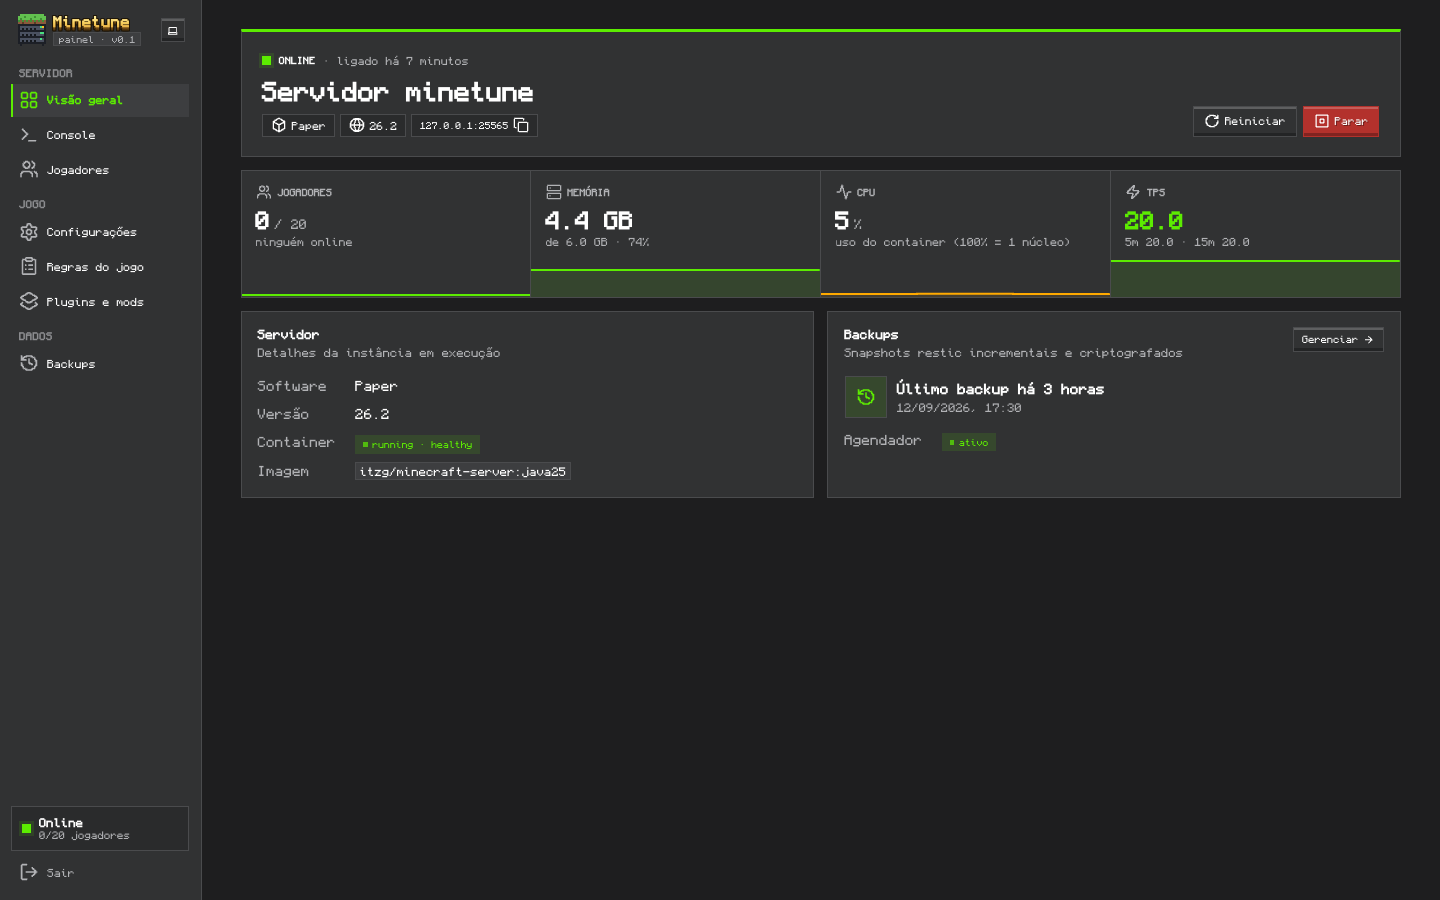
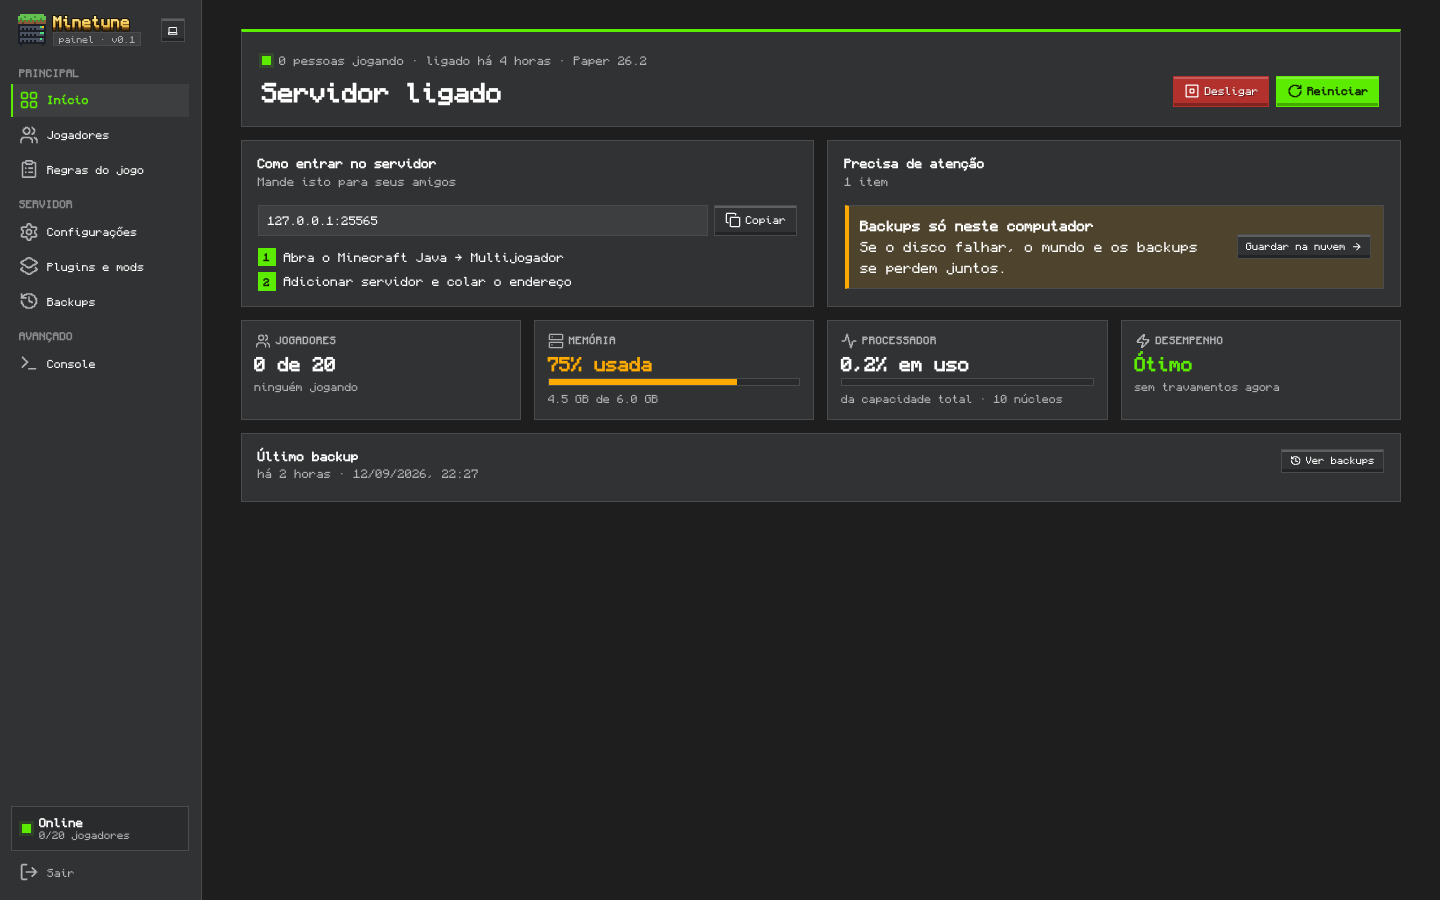
docs: prints e textos das telas no padrão novo
Os prints do README e do site ainda mostravam as telas antigas (Visão geral
com gráficos, menu lateral nas Configurações, cartão Destino) e os textos
falavam em whitelist, op e snapshots. Quem chega pelo GitHub via uma
interface que não existe mais.

Os nove prints foram tirados de novo, incluindo a subpágina Onde guardar.
O de Jogadores usa pessoas de exemplo, simuladas só no navegador, para a
tela aparecer preenchida; os outros são do servidor real. README e guia de
backups passam a usar os nomes novos (Início, lista de convidados, Onde
guardar) e o README abre com um parágrafo dizendo o que o projeto faz, com
o link do site.

diff --git a/README.md b/README.md
@@ -25,15 +25,20 @@
 </p>
 
 <p align="center">
-  <img src="docs/assets/screenshots/overview.png" width="860" alt="Visão geral do painel Minetune">
+  <img src="docs/assets/screenshots/overview.png" width="860" alt="Tela Início do painel Minetune com o estado do servidor, como entrar e avisos">
 </p>
 
 ---
 
 ## Sobre
 
-O **Minetune** junta tudo o que um servidor Minecraft precisa para rodar de
-verdade, sem improviso:
+O **Minetune** é a forma mais simples de **criar e administrar um servidor de
+Minecraft** (Java e Bedrock) com Docker: um painel web em português, feito para
+quem nunca administrou um servidor, com backups automáticos e caminhos prontos
+para colocar no ar em casa, numa VPS ou no EasyPanel.
+Site oficial: **<https://juniorcarlini.github.io/minetune/>**.
+
+Ele junta tudo o que um servidor Minecraft precisa para rodar de verdade, sem improviso:
 
 - **Servidor otimizado** sobre a imagem [`itzg/minecraft-server`](https://github.com/itzg/docker-minecraft-server):
   Paper, Purpur, Fabric, NeoForge ou Vanilla, com Java 25 e flags de GC ajustadas.
@@ -93,7 +98,7 @@ Pronto:
 | | |
 |---|---|
 | **Servidor** | Paper 26.2 por padrão; Purpur, Fabric, NeoForge ou Vanilla com um clique. Java 25, flags de GC Aikar e memória limitada por container. |
-| **Painel** | Status com gráficos de jogadores, memória, CPU e TPS; propriedades do servidor com validação; **todas as regras de jogo**, detectadas na versão em execução; jogadores (whitelist, op, kick, ban); plugins e mods do Modrinth com busca; backups e restore; console ao vivo. |
+| **Painel** | Feito para quem não é técnico: tela Início com o estado do servidor, endereço para copiar e avisos com o botão que resolve; jogadores, lista de convidados e administradores; configurações em linguagem simples com versões oficiais de cada software; **todas as regras de jogo** da versão em execução; plugins e mods do Modrinth; backups com destino configurável; console. |
 | **Backups** | restic incremental, deduplicado e criptografado. Agendado, manual e automático antes de restore e updates. Retenção configurável. |
 | **Crossplay** | Geyser + Floodgate com um toggle: jogadores Bedrock entram sem conta Java. Desligado por padrão. |
 | **Otimização** | Distâncias de visão e simulação ajustadas, patches do Paper (explosões, redstone Alternate Current, limites de entidades) e Chunky para pré-gerar o mundo. |
@@ -102,8 +107,11 @@ Pronto:
 
 ## 🖥 O painel
 
-Interface em blocos, com cara de Minecraft: cantos retos, botões com bisel, fonte
-pixelada, ícones pixelados e toggles no estilo do jogo. Tema claro, escuro ou
+Pensado para quem nunca administrou um servidor: toda tela segue o mesmo padrão
+(título com uma frase, ações à direita, avisos com o botão que resolve) e usa
+palavras do jogo, como administradores e lista de convidados. Termos técnicos
+ficam atrás de "Opções avançadas". O visual é em blocos, com cara de Minecraft:
+cantos retos, botões com bisel, fonte e ícones pixelados. Tema claro, escuro ou
 seguindo o sistema, e três versões de logo para escolher (clique no logo do menu).
 
 <table>
@@ -117,22 +125,24 @@ seguindo o sistema, e três versões de logo para escolher (clique no logo do me
   </tr>
   <tr>
     <td><img src="docs/assets/screenshots/plugins.png" alt="Plugins e mods"><p align="center"><sub>Plugins e mods (Modrinth)</sub></p></td>
-    <td><img src="docs/assets/screenshots/backups.png" alt="Backups"><p align="center"><sub>Backups e restore</sub></p></td>
+    <td><img src="docs/assets/screenshots/backups.png" alt="Backups"><p align="center"><sub>Backups e restauração</sub></p></td>
   </tr>
   <tr>
-    <td colspan="2"><img src="docs/assets/screenshots/console.png" alt="Console"><p align="center"><sub>Console ao vivo</sub></p></td>
+    <td><img src="docs/assets/screenshots/backup-destination.png" alt="Onde guardar os backups"><p align="center"><sub>Onde guardar os backups</sub></p></td>
+    <td><img src="docs/assets/screenshots/console.png" alt="Console"><p align="center"><sub>Console (avançado)</sub></p></td>
   </tr>
 </table>
 
 | Página | O que dá para fazer |
 |---|---|
-| **Visão geral** | Ligar, parar e reiniciar; ver jogadores online, memória, CPU e TPS em tempo real; copiar o endereço do servidor; ver o último backup. |
-| **Console** | Acompanhar o log ao vivo e mandar comandos via RCON. |
-| **Jogadores** | Whitelist, operadores, expulsar, banir e desbanir. |
-| **Configurações** | Tipo e versão do servidor, memória, MOTD, mundo, dificuldade, PvP, distâncias, whitelist e crossplay. Tudo validado antes de salvar. |
-| **Regras do jogo** | Todas as regras que a versão em execução oferece, aplicadas em todas as dimensões. |
-| **Plugins e mods** | Buscar no Modrinth e adicionar ou remover; a lista é separada por loader (Paper, Fabric, NeoForge). |
-| **Backups** | Backup na hora, lista de snapshots, restore seguro (faz um backup antes e desfaz se algo falhar) e destino configurável: disco local, R2, S3 ou RustFS, com teste de conexão, frequência e retenção. |
+| **Início** | Ver se o servidor está ligado, ligar, desligar e reiniciar; copiar o endereço para os amigos; jogadores, memória, processador e desempenho em frases simples; "Precisa de atenção" com o botão que resolve cada aviso; último backup. |
+| **Jogadores** | Quem está jogando; tornar administrador, expulsar e banir pelo menu "Mais"; lista de convidados com a chave "Só convidados podem entrar"; desbanir. |
+| **Regras do jogo** | Todas as regras que a versão em execução oferece, com busca e categorias, aplicadas na hora em todas as dimensões. |
+| **Configurações** | Tipo e versão do servidor (lista oficial de cada software), memória, mensagem na lista de servidores, mundo, dificuldade, distâncias, acesso e Bedrock. Tudo validado antes de salvar; opções técnicas só com "Opções avançadas". |
+| **Plugins e mods** | Buscar no Modrinth só o que é compatível e adicionar ou remover; a lista é separada por loader (Paper, Fabric, NeoForge). |
+| **Backups** | Saber no topo se o mundo está protegido; backup na hora; lista de cópias e restauração segura (faz um backup antes e desfaz se algo falhar). |
+| **Onde guardar** | Destino dos backups (este computador, Cloudflare R2, Amazon S3 ou S3 próprio) com teste de conexão, frequência e retenção. |
+| **Console** | No grupo Avançado: registro ao vivo do servidor e comandos, com sugestões. |
 
 No celular, o painel continua usável: o login mostra só o formulário e o menu vira
 uma barra de ícones no topo.
@@ -159,7 +169,7 @@ Principais variáveis do `.env`:
 | `MC_IMAGE_TAG` | `java25` | Java da imagem. Versões antigas do jogo: `java21`, `java17`, `java8`. |
 | `RESTIC_REPOSITORY` | `/backups/restic` | Destino dos backups (local, S3, R2 ou RustFS). |
 | `BACKUP_INTERVAL` | `6h` | Frequência dos backups automáticos. |
-| `BACKUP_RETENTION` | 4 últimos, 7 diários, 4 semanais, 6 mensais | Quantos snapshots manter. |
+| `BACKUP_RETENTION` | 4 últimos, 7 diários, 4 semanais, 6 mensais | Quantas cópias manter. |
 | `COMPOSE_FILE` | `compose.yaml` | Ativa os overlays de RustFS e playit.gg. |
 
 A lista completa, com comentários, está no [`.env.example`](.env.example).

diff --git a/docs/BACKUP.md b/docs/BACKUP.md
@@ -27,7 +27,7 @@ ops e mundos entram.
 
 ### Pelo painel (recomendado)
 
-Na página **Backups → Destino → Configurar**, escolha onde guardar (disco local,
+Na página **Backups → Onde guardar** (ou pelo aviso "Guardar na nuvem"), escolha onde guardar (este computador,
 Cloudflare R2, AWS S3, S3 próprio como RustFS/MinIO, ou um repositório restic
 qualquer em "Avançado"), a frequência, quantos backups manter e o limite de
 upload. **Testar conexão** confere o destino antes de salvar e diz se ele já tem
